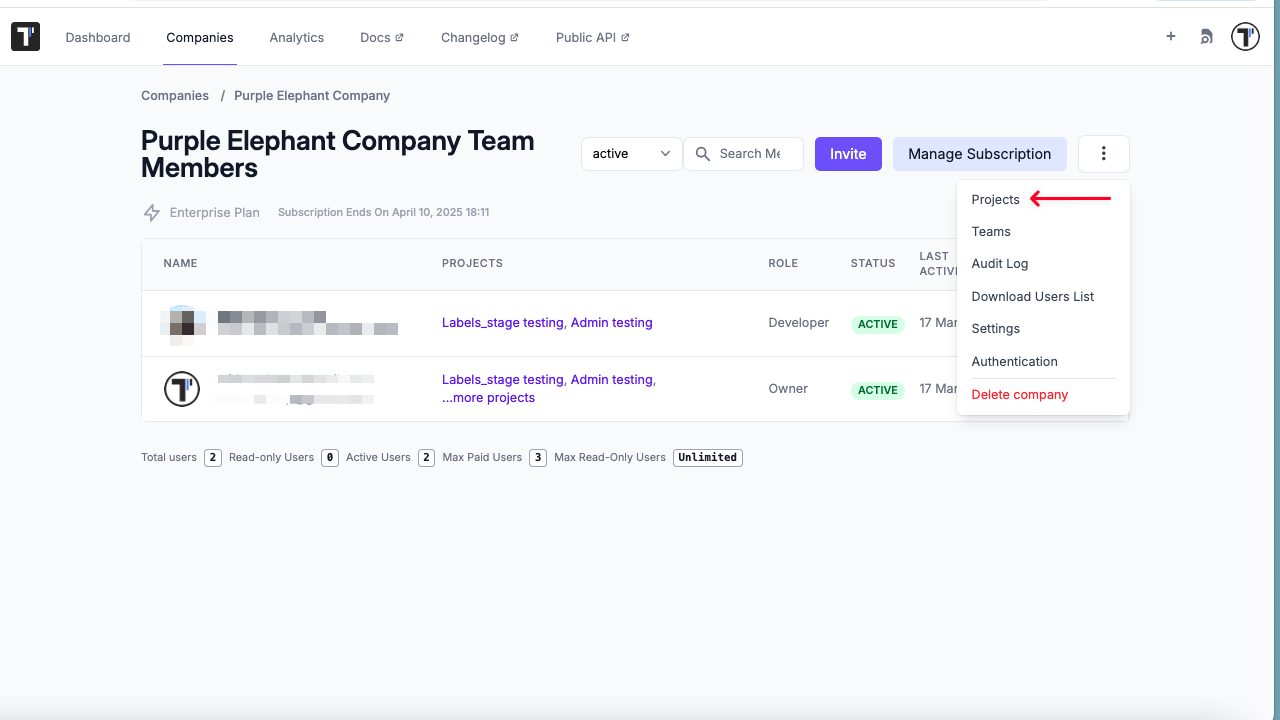
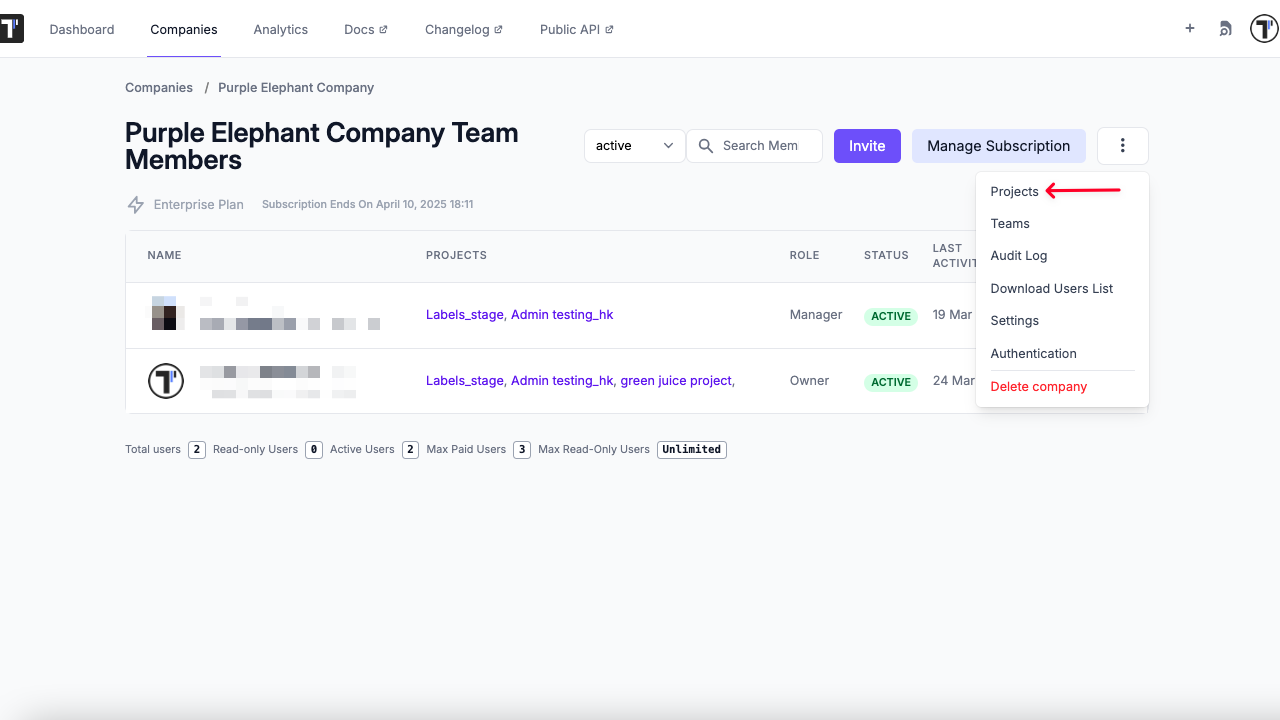
2nd commit for 261

diff --git a/src/content/docs/management/company/administration.md b/src/content/docs/management/company/administration.md
@@ -222,6 +222,7 @@ Company Owners and Managers can administer projects via the **Project board** in
 3. Select your company.
 4. Click the three dots (⋮) next to the **Manage Subscription** button.
 5. Select **Projects**.
+
 ![Testomatio.io - Projects-Board-Access](./images/Projects_Board.png)
 
 Once you’ve selected **Projects**, you’ll be directed to the Project board for your Company.
@@ -235,6 +236,6 @@ Next to each project in the list, you'll find a three-dot (⋮) menu. You can pe
 - **Archive/Unarchive**: Archive a project to prevent edits while retaining read-only access. Unarchive when needed.
 - **Delete**: Permanently delete a project. **Note:** This action is irreversible.
 
-![Testomatio.io - Projects-Management-Menu](./images/maage_projects.png)
+![Testomatio.io - Projects-Management-Menu](./images/manage_project.png)
 
 
